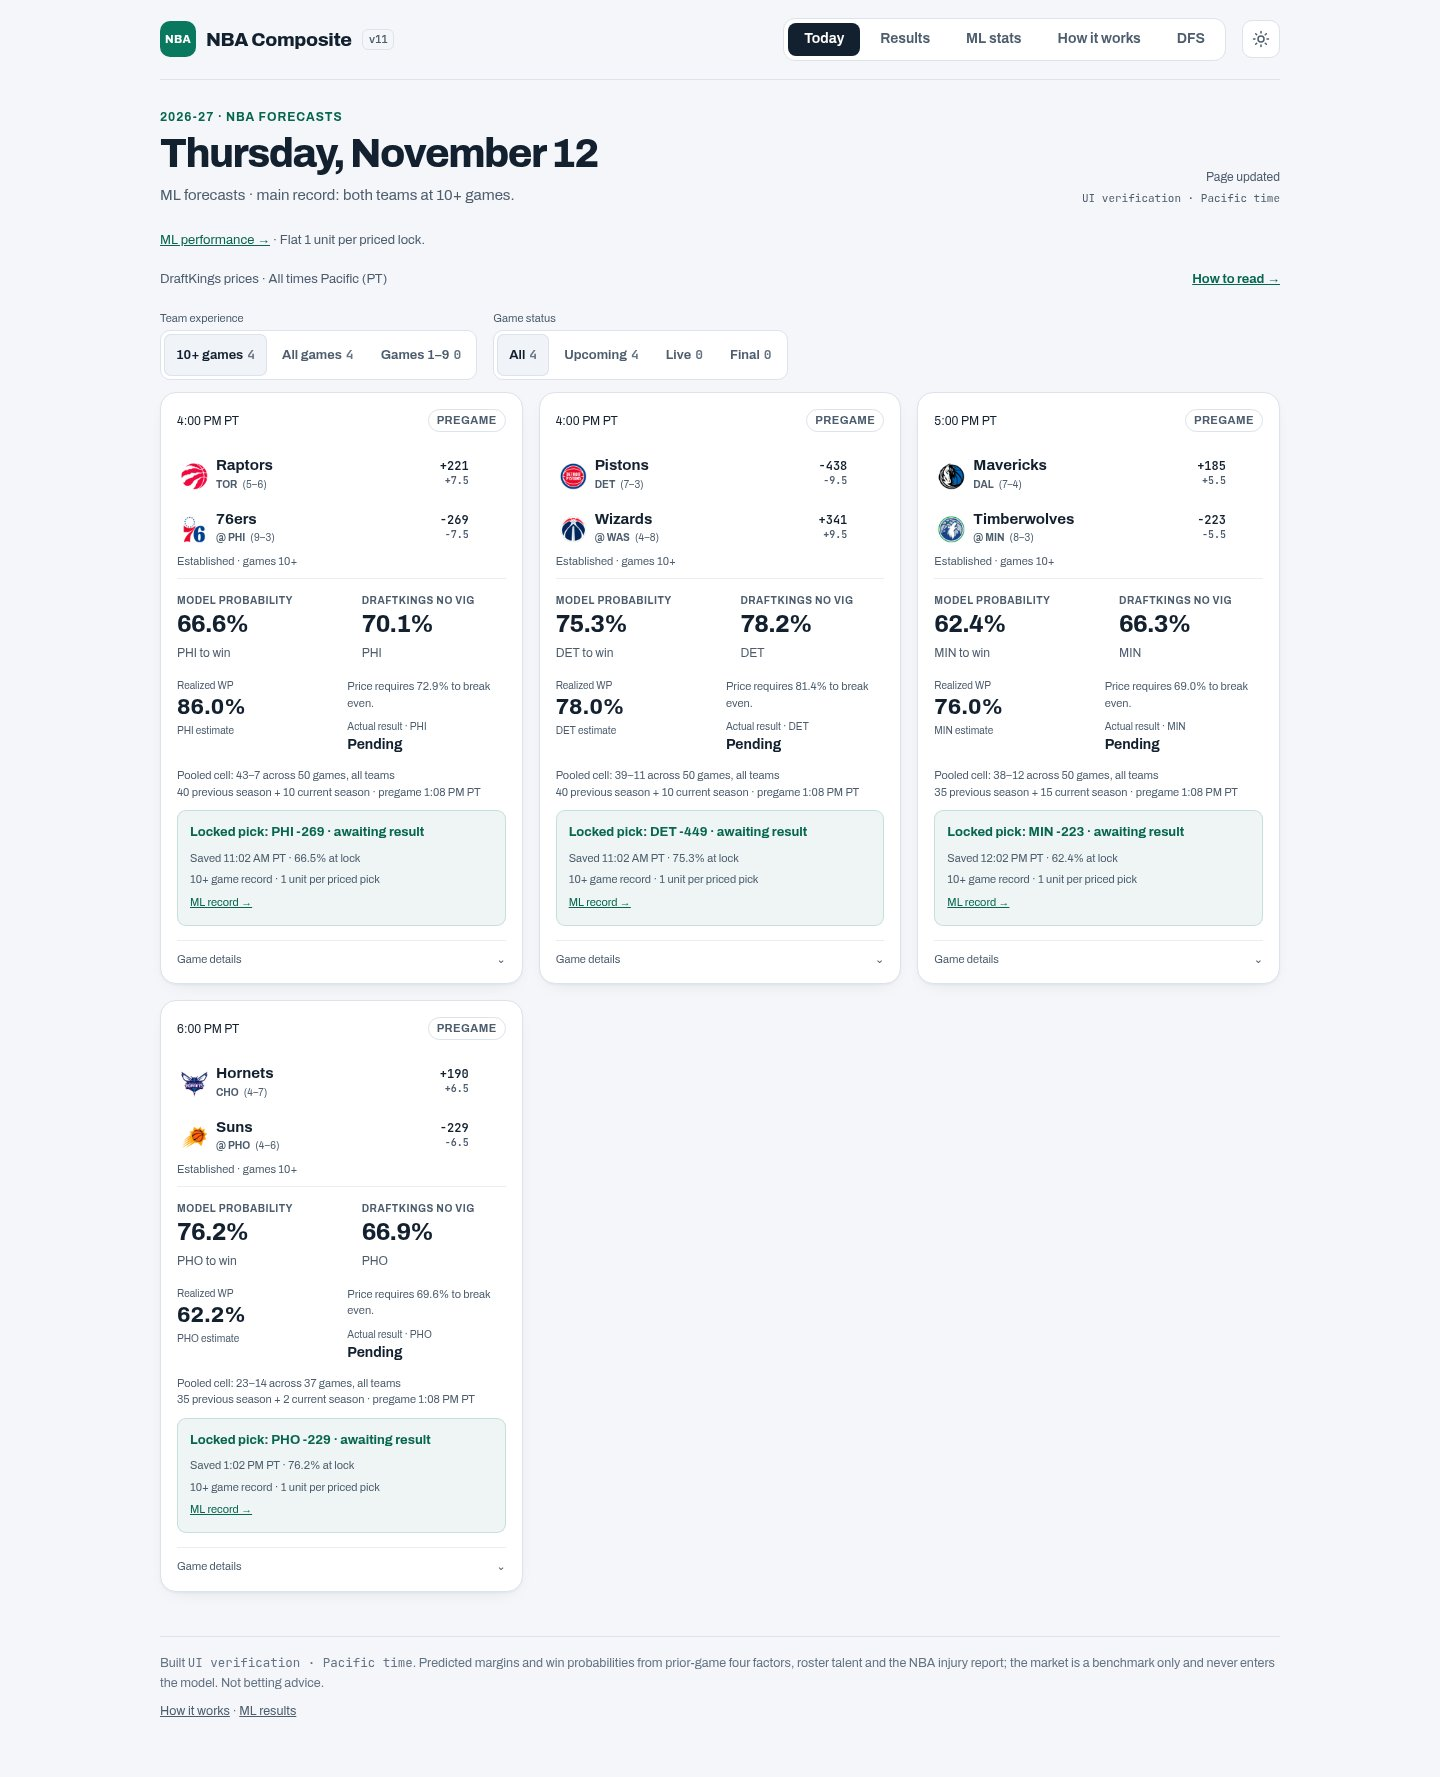
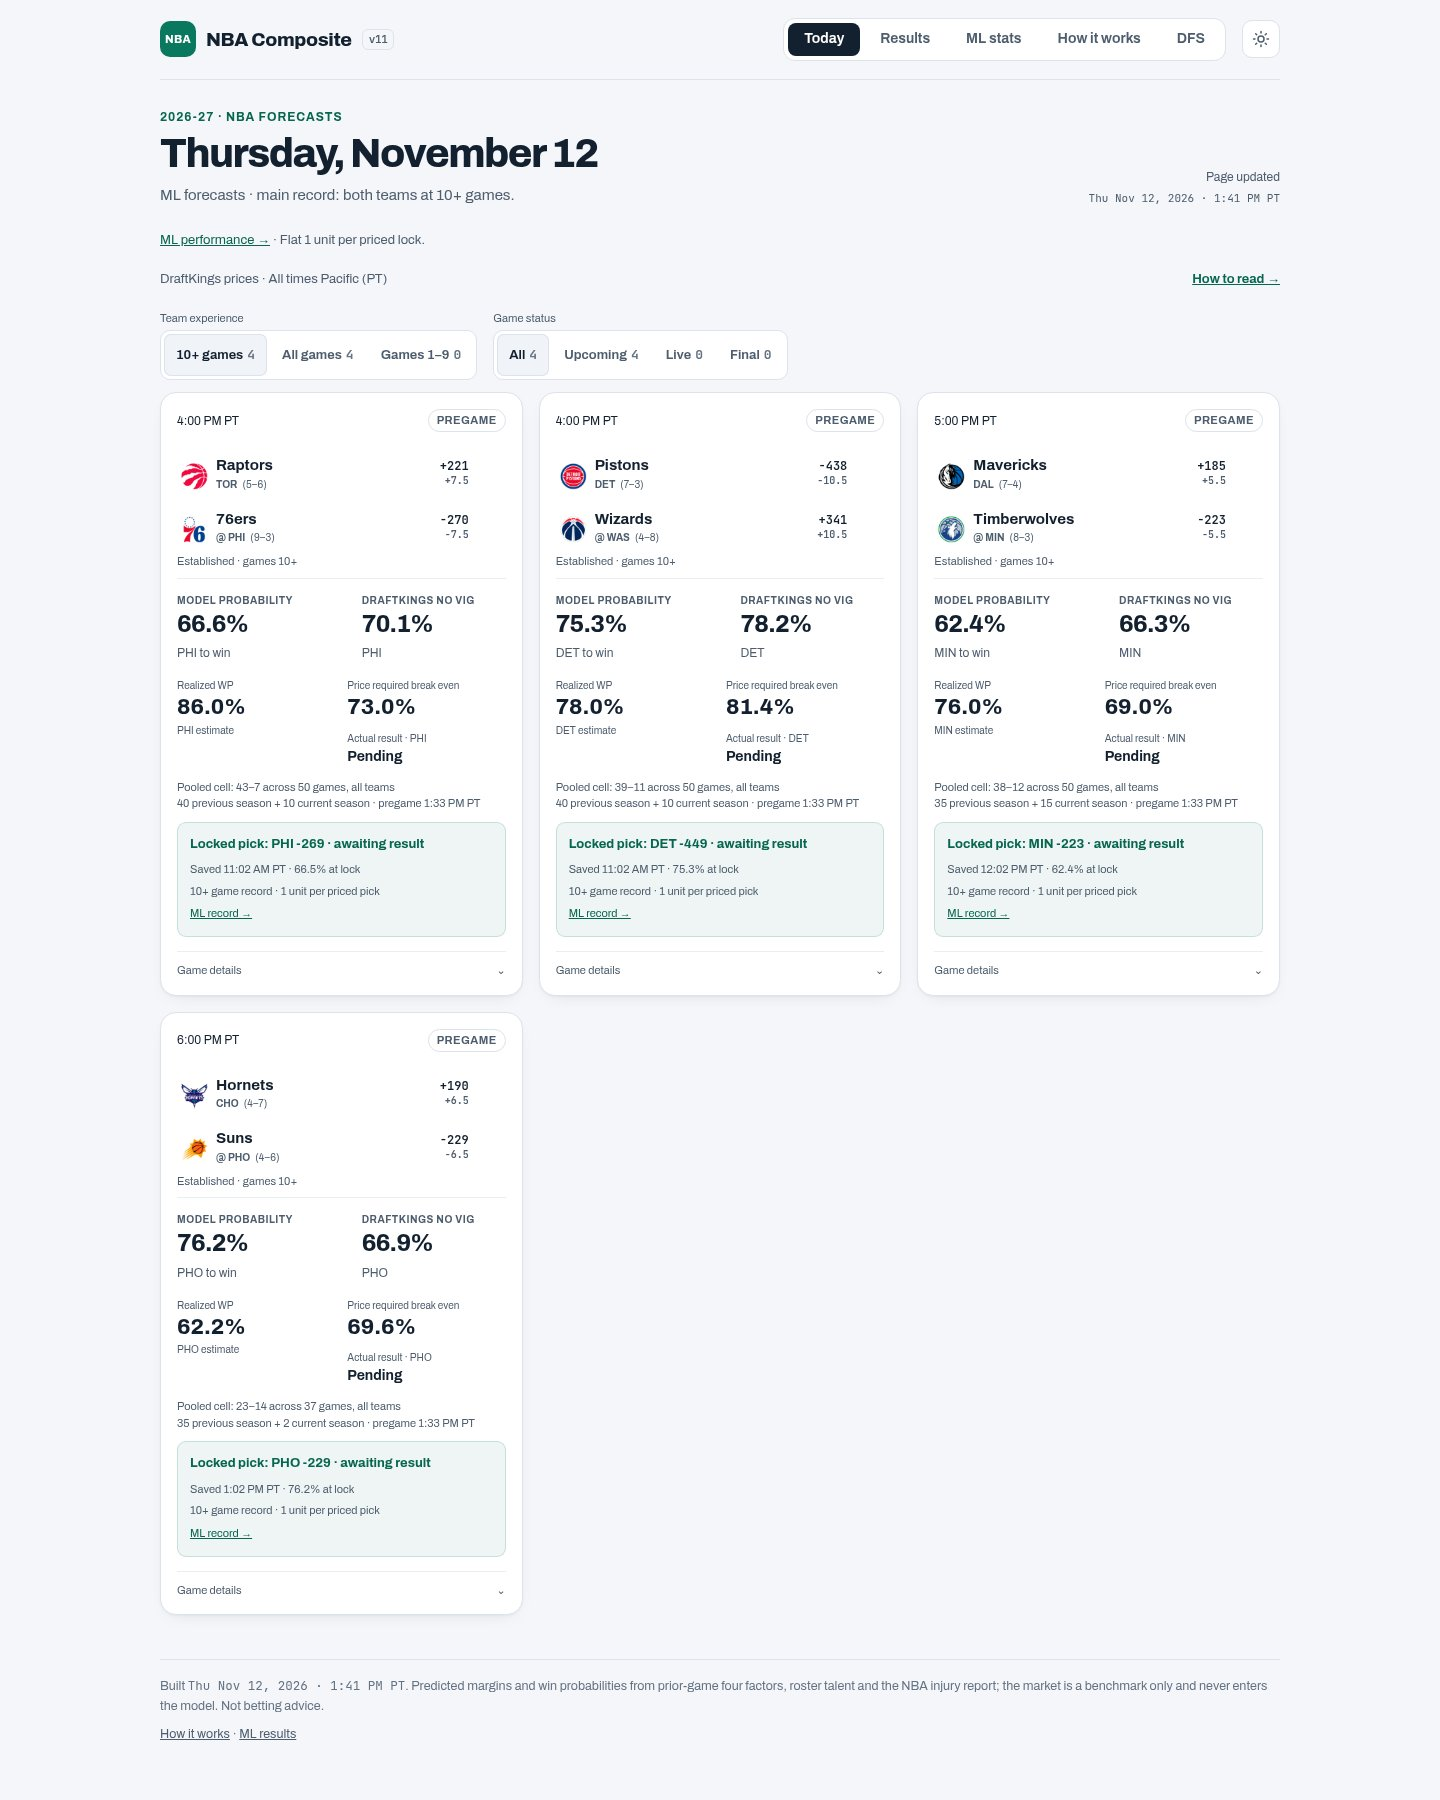
Display break-even probability as a headline metric

diff --git a/public_site.py b/public_site.py
@@ -126,7 +126,7 @@ CSS = """
 .forecast-readout.ml-focus{grid-template-columns:1.2fr 1fr}.stage-label{font-size:11px;color:var(--muted)}
 [data-source-summary][hidden],[data-ml-panel][hidden],.gcard[hidden]{display:none!important}
 .game-filters{display:flex;flex-wrap:wrap;gap:8px 16px;margin:16px 0 12px}.filter-group>span{display:block;font-size:11px;color:var(--muted);margin-bottom:4px}.filter-group .seg{display:flex;margin:0}
-.forecast-outcome{display:grid;grid-template-columns:1fr 1fr;gap:12px;font-size:12px;margin:0 0 10px}.calibration-main{order:0}.actual-result{order:1}.calibration-evidence{order:2;grid-column:1/-1}.forecast-outcome .calibration-main strong{font:750 22px/1.35 var(--sans)}.forecast-outcome .break-even{margin:0 0 8px}.forecast-outcome small{display:block;color:var(--muted);font-size:10px}.forecast-outcome strong{display:block;font-size:14px}.forecast-outcome .calibration-evidence small{font-size:11px}.break-even{font-size:11px;color:var(--muted);margin:0 0 12px}.lock-summary{margin-top:4px}.lock-summary strong{display:block;font-size:13px;text-transform:none;letter-spacing:0}.lock-summary small{display:block;font-size:11px;color:var(--muted);margin-top:5px}.lock-summary a{display:inline-block;margin-top:6px;font-size:11px}
+.forecast-outcome{display:grid;grid-template-columns:1fr 1fr;gap:12px;font-size:12px;margin:0 0 10px}.calibration-main{order:0}.actual-result{order:1}.calibration-evidence{order:2;grid-column:1/-1}.forecast-outcome .calibration-main strong,.forecast-outcome .break-even strong{font:750 22px/1.35 var(--sans);color:var(--ink)}.forecast-outcome .break-even{margin:0 0 8px}.forecast-outcome small{display:block;color:var(--muted);font-size:10px}.forecast-outcome strong{display:block;font-size:14px}.forecast-outcome .calibration-evidence small{font-size:11px}.break-even{font-size:11px;color:var(--muted);margin:0 0 12px}.lock-summary{margin-top:4px}.lock-summary strong{display:block;font-size:13px;text-transform:none;letter-spacing:0}.lock-summary small{display:block;font-size:11px;color:var(--muted);margin-top:5px}.lock-summary a{display:inline-block;margin-top:6px;font-size:11px}
 .source-summary{display:grid;grid-template-columns:repeat(2,minmax(0,1fr));gap:12px;margin:16px 0}.source-summary article{padding:16px;background:var(--surface);border:1px solid var(--line);border-radius:12px}.source-summary h3{margin:0 0 6px;font-size:15px}.source-summary p{font-size:12px;color:var(--muted);margin:6px 0}.source-summary strong{color:var(--ink)}
 .public-empty button{margin-top:14px;min-height:44px;padding:8px 14px;border:1px solid var(--line);border-radius:8px;background:var(--surface-2);color:var(--ink);font:inherit;cursor:pointer}
 @media(max-width:640px){.today-head.public-head{margin:12px 0}.today-head .eyebrow{display:none}.today-head h1{font-size:26px}.today-head.public-head p{font-size:12px;margin-top:4px}.today-head .update{margin-top:8px}.today-note.public-note{display:none}.today-intro.public-intro{margin:12px 0}.game-filters{margin:12px 0;gap:8px}.filter-group{width:100%}.filter-group .seg{width:100%}.filter-group .seg button{flex:1;padding:8px 6px}.source-summary{grid-template-columns:1fr}.forecast-readout{padding:10px 0}.tool-card .g-meta{margin-bottom:8px}.lock-summary{padding:10px}}
@@ -297,10 +297,10 @@ class PublicSite:
             forecast = (f"<div class='forecast-readout ml-focus'><div><small>Model probability</small><strong>{u.pct(prob)}</strong><span>{u.esc(team)} to win</span></div>"
                         f"<div data-market-probability><small>DraftKings no vig</small><strong>{u.pct(q_pick)}</strong><span>{u.esc(team)}</span></div></div>")
             actual = 'Pending' if not final else 'Win' if (p >= .5) == (number('home_won') == 1) else 'Loss'
-            threshold = (f"Price requires {u.pct(breakeven)} to break even." if np.isfinite(breakeven)
-                         else 'Break-even probability unavailable: no valid DraftKings price.')
+            threshold = (f"<small>Price required break even</small><strong>{u.pct(breakeven)}</strong>"
+                         + ("" if np.isfinite(breakeven) else "<small>DraftKings price unavailable.</small>"))
             forecast += ("<div class='forecast-outcome'>" + self.calibrated_readout(row, team)
-                         + f"<div class='actual-result'><p class='break-even'>{threshold}</p><small>Actual result · {u.esc(team)}</small>"
+                         + f"<div class='actual-result'><div class='break-even'>{threshold}</div><small>Actual result · {u.esc(team)}</small>"
                          f"<strong data-forecast-result data-pick-side='{'home' if p >= .5 else 'away'}'>{actual}</strong></div></div>")
         else:
             forecast = ("<div class='forecast-only'><b>Forecast unavailable</b><br>A required model input was unavailable.</div>"

diff --git a/CLAUDE.md b/CLAUDE.md
@@ -5,6 +5,12 @@ state uncertainty, and turn findings into concrete tests.
 
 ## Live model and forward tests
 
+### Break-even headline — owner approval, November 12, 2026
+
+Display "Price required break even" as a metric label with its calculated
+percentage in the same prominent style as Realized WP, above Actual result.
+This replaces the sentence format only; pricing and calculations are unchanged.
+
 ### ML stats ROI matrix — owner approval, November 12, 2026
 
 Replace the Winner accuracy by stated win chance table with a joint model-WP
